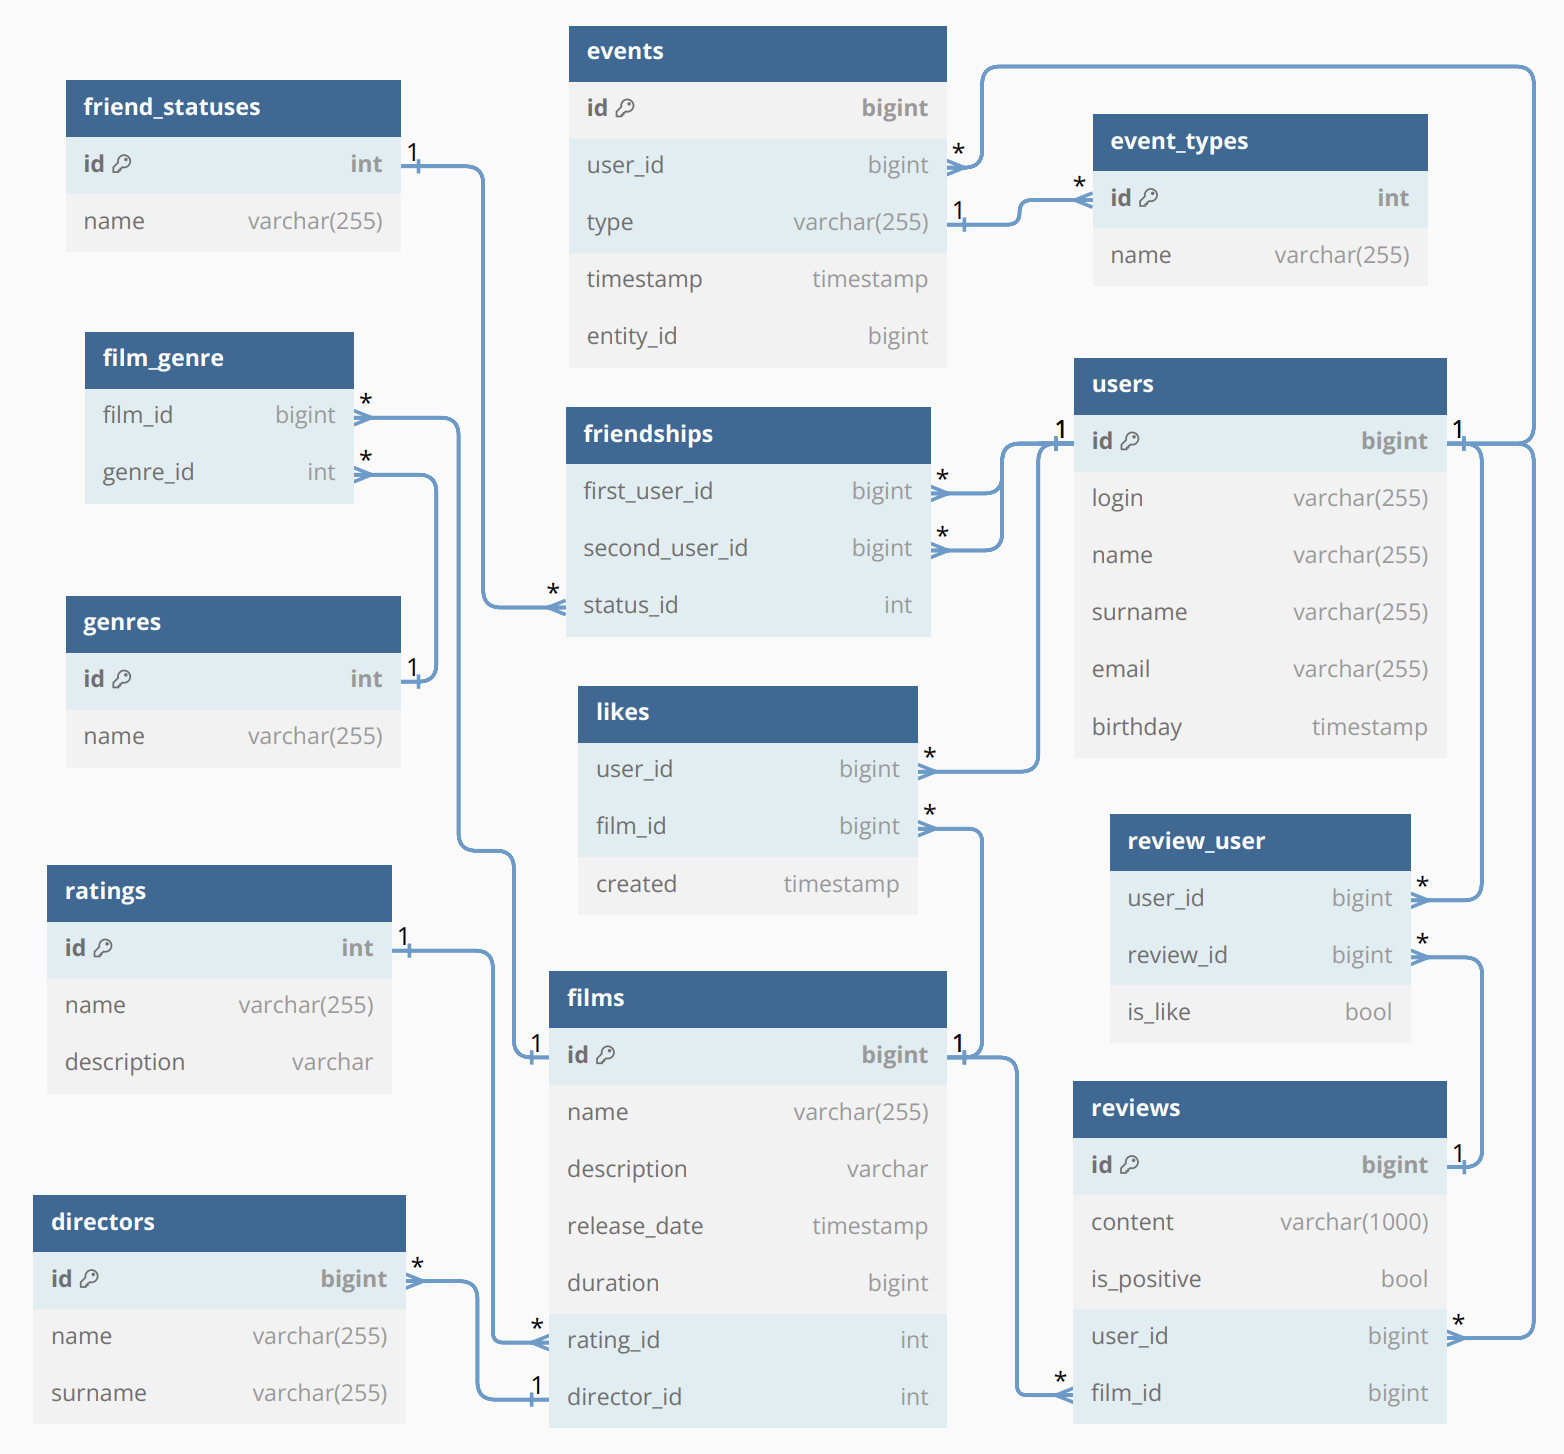
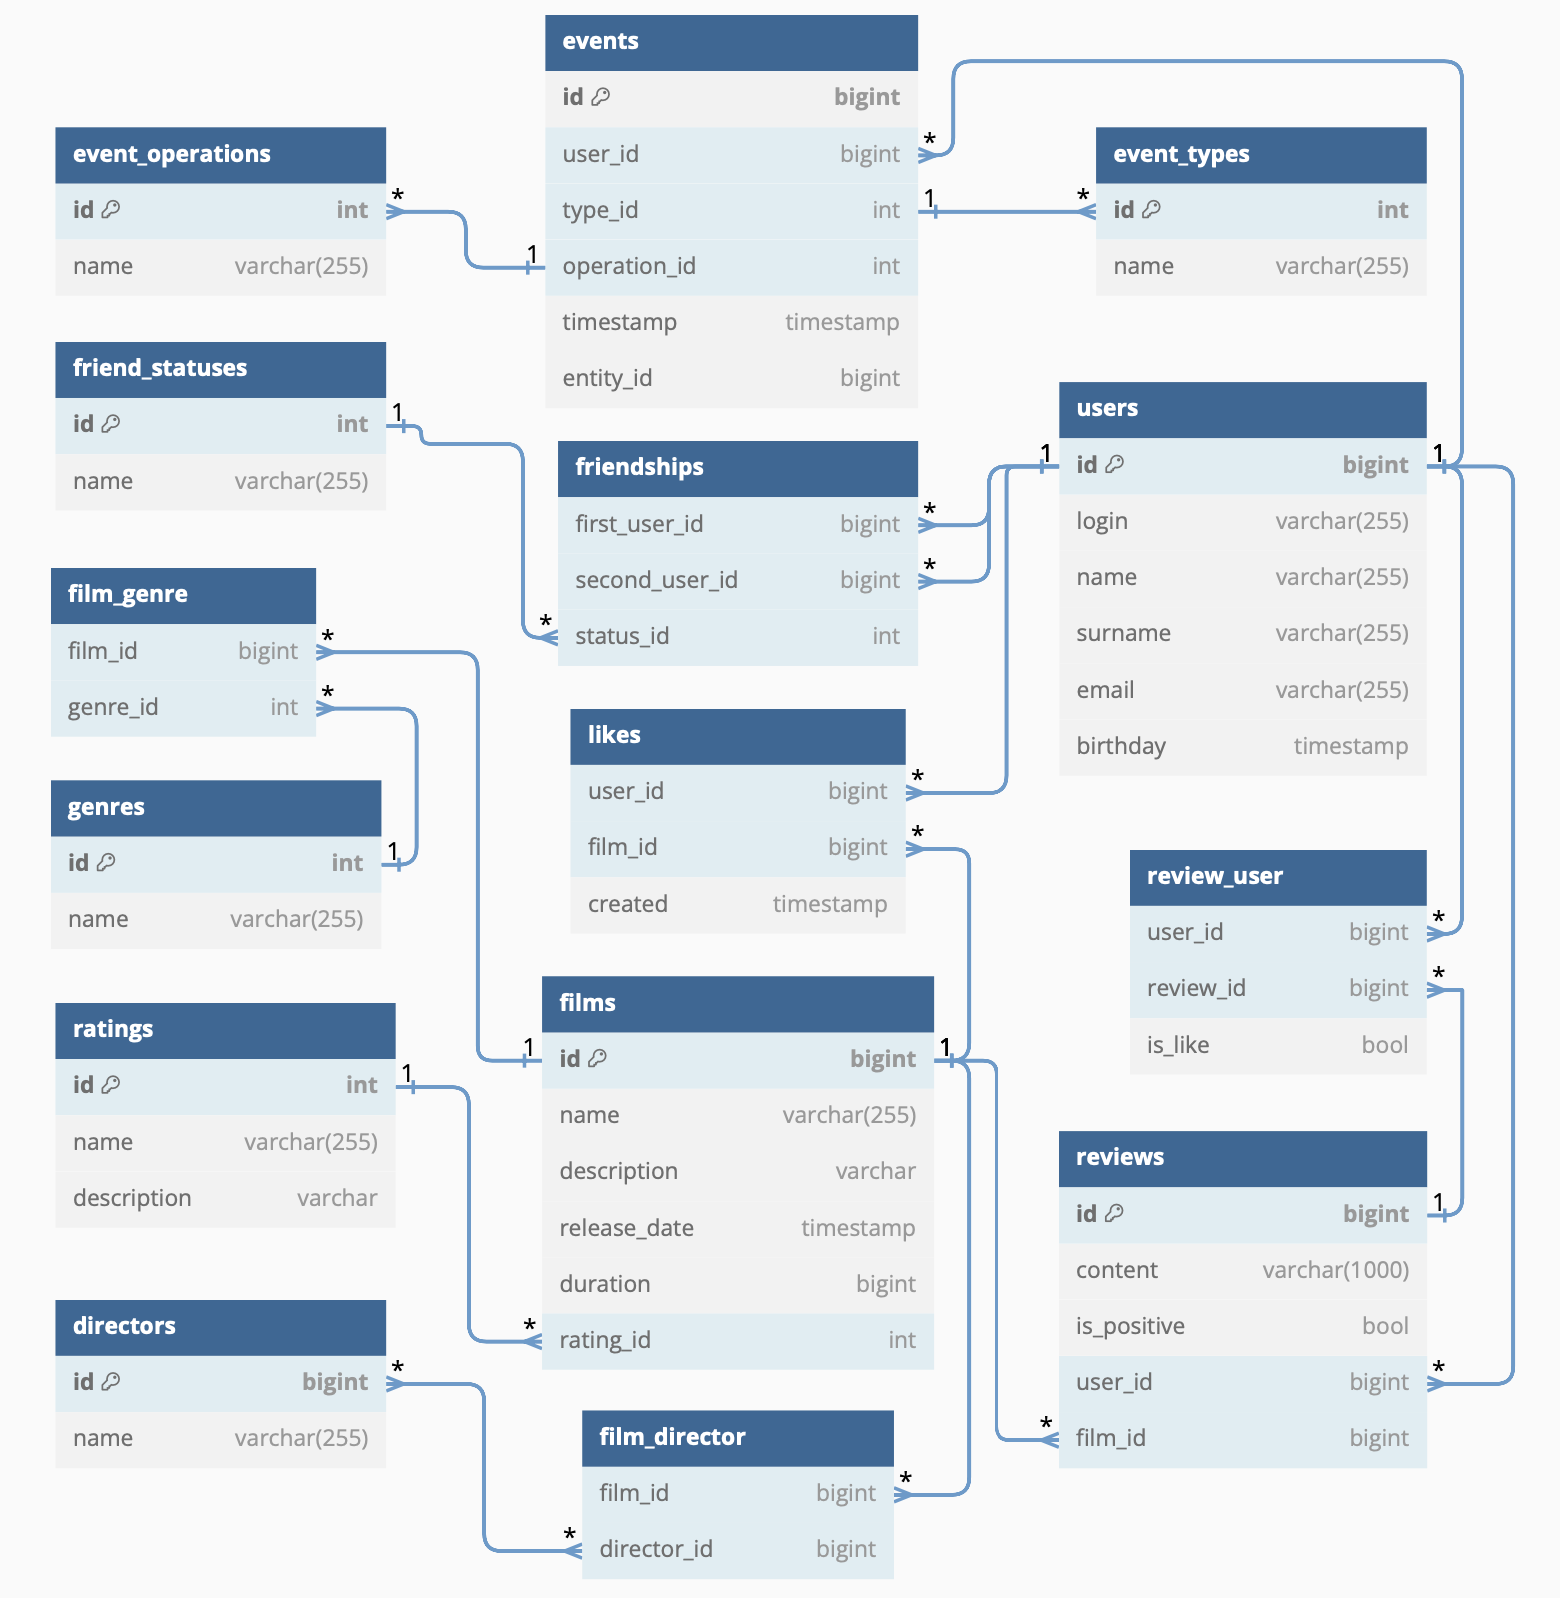
Исправить ER-диаграмму

Changed region(s): [[0.0, 0.2166, 0.9846, 0.9904], [0.3077, 0.0, 0.9846, 0.2476], [0.0308, 0.0309, 0.3077, 0.1857]]

diff --git a/src/main/java/ru/yandex/practicum/filmorate/dal/impl/JdbcFilmRepository.java b/src/main/java/ru/yandex/practicum/filmorate/dal/impl/JdbcFilmRepository.java
@@ -44,7 +44,6 @@ public class JdbcFilmRepository implements FilmRepository {
         SELECT f.genre_id AS id, g.name FROM film_genre AS f
         JOIN genres g ON g.id = f.genre_id WHERE film_id = :film_id
         """;
-
     static final String FILM_INSERT_QUERY = """
         INSERT INTO films (name, description, release_date, duration, rating_id)
         VALUES(:name, :description, :release_date, :duration, :rating_id)
@@ -207,6 +206,66 @@ public class JdbcFilmRepository implements FilmRepository {
         return new ArrayList<>(filmMap.values());
     }
 
+    @Override
+    public List<Film> getCommonFilms(long userId, long friendId) {
+        Map<Long, Film> filmMap = new HashMap<>();
+
+        jdbc.query(LIST_OF_COMMON_FILMS, Map.of("userId", userId, "friendId", friendId), filmRowMapper)
+            .forEach(film -> filmMap.put(film.getId(), film));
+        Map<Long, Genre> genreMap = getEntitiesMap(FIND_ALL_GENRES_QUERY, genreRowMapper, Genre::getId);
+        Map<Long, Director> directorMap = getEntitiesMap(FIND_ALL_DIRECTORS_QUERY, directorRowMapper, Director::getId);
+        Map<Long, MpaRating> ratingMap = getEntitiesMap(FIND_ALL_RATINGS_QUERY, ratingRowMapper, MpaRating::getId);
+
+        fillGenres(filmMap, genreMap);
+        fillDirectors(filmMap, directorMap);
+        fillLikes(filmMap);
+
+        filmMap.forEach((filmId, film) -> film.setMpa(ratingMap.get(film.getMpa().getId())));
+        return new ArrayList<>(filmMap.values());
+    }
+
+    @Override
+    public List<Film> getRecommendations(long userId) {
+        Map<Long, Film> filmMap = new HashMap<>();
+
+        jdbc.query(LIST_OF_RECOMMENDED_FILMS, Map.of("userId", userId), filmRowMapper)
+            .forEach(film -> filmMap.put(film.getId(), film));
+        Map<Long, Genre> genreMap = getEntitiesMap(FIND_ALL_GENRES_QUERY, genreRowMapper, Genre::getId);
+        Map<Long, Director> directorMap = getEntitiesMap(FIND_ALL_DIRECTORS_QUERY, directorRowMapper, Director::getId);
+        Map<Long, MpaRating> ratingMap = getEntitiesMap(FIND_ALL_RATINGS_QUERY, ratingRowMapper, MpaRating::getId);
+
+        fillGenres(filmMap, genreMap);
+        fillDirectors(filmMap, directorMap);
+        fillLikes(filmMap);
+
+        filmMap.forEach((filmId, film) -> film.setMpa(ratingMap.get(film.getMpa().getId())));
+
+        return new ArrayList<>(filmMap.values());
+    }
+
+    @Override
+    public List<Film> getTopPopularFilms(Long limit, Long genreId, Long year) {
+        MapSqlParameterSource params = new MapSqlParameterSource()
+            .addValue("genre_id", genreId)
+            .addValue("year", year)
+            .addValue("limit", limit);
+
+        Map<Long, Genre> genreMap = getEntitiesMap(FIND_ALL_GENRES_QUERY, genreRowMapper, Genre::getId);
+        Map<Long, Director> directorMap = getEntitiesMap(FIND_ALL_DIRECTORS_QUERY, directorRowMapper, Director::getId);
+        Map<Long, MpaRating> ratingMap = getEntitiesMap(FIND_ALL_RATINGS_QUERY, ratingRowMapper, MpaRating::getId);
+
+        Map<Long, Film> filmMap = getEntitiesMap(buildTopFilmsQuery(genreId, year), filmRowMapper, Film::getId,
+            params.getValues());
+
+        fillGenres(filmMap, genreMap);
+        fillDirectors(filmMap, directorMap);
+        fillLikes(filmMap);
+
+        filmMap.forEach((filmId, film) -> film.setMpa(ratingMap.get(film.getMpa().getId())));
+
+        return new ArrayList<>(filmMap.values());
+    }
+
     MapSqlParameterSource buildParams(String query, String by) {
         query = "%" + query + "%";
         return switch (by) {
@@ -225,13 +284,13 @@ public class JdbcFilmRepository implements FilmRepository {
     }
 
     <T> Map<Long, T> getEntitiesMap(String query, RowMapper<T> rowMapper, Function<T, Long> idExtractor,
-                                            Map<String, ?> params) {
+                                    Map<String, ?> params) {
         return getEntitiesMap(query, rowMapper, idExtractor, params, LinkedHashMap::new);
     }
 
     <T> Map<Long, T> getEntitiesMap(String query, RowMapper<T> rowMapper,
-                                            Function<T, Long> idExtractor, Map<String, ?> params,
-                                            Supplier<Map<Long, T>> mapSupplier) {
+                                    Function<T, Long> idExtractor, Map<String, ?> params,
+                                    Supplier<Map<Long, T>> mapSupplier) {
         return getEntitiesByCollector(query, rowMapper, idExtractor, params, Collectors.toMap(
             idExtractor, Function.identity(), (oldFilm, newFilm) -> oldFilm, mapSupplier
         ));
@@ -312,66 +371,6 @@ public class JdbcFilmRepository implements FilmRepository {
 
         jdbc.update(FILM_GENRE_DELETE_QUERY, deleteFilmGenreParam);
         jdbc.update(FILM_DIRECTOR_DELETE_QUERY, deleteFilmDirectorParam);
-    }
-
-    @Override
-    public List<Film> getCommonFilms(long userId, long friendId) {
-        Map<Long, Film> filmMap = new HashMap<>();
-
-        jdbc.query(LIST_OF_COMMON_FILMS, Map.of("userId", userId, "friendId", friendId), filmRowMapper)
-            .forEach(film -> filmMap.put(film.getId(), film));
-        Map<Long, Genre> genreMap = getEntitiesMap(FIND_ALL_GENRES_QUERY, genreRowMapper, Genre::getId);
-        Map<Long, Director> directorMap = getEntitiesMap(FIND_ALL_DIRECTORS_QUERY, directorRowMapper, Director::getId);
-        Map<Long, MpaRating> ratingMap = getEntitiesMap(FIND_ALL_RATINGS_QUERY, ratingRowMapper, MpaRating::getId);
-
-        fillGenres(filmMap, genreMap);
-        fillDirectors(filmMap, directorMap);
-        fillLikes(filmMap);
-
-        filmMap.forEach((filmId, film) -> film.setMpa(ratingMap.get(film.getMpa().getId())));
-        return new ArrayList<>(filmMap.values());
-    }
-
-    @Override
-    public List<Film> getRecommendations(long userId) {
-        Map<Long, Film> filmMap = new HashMap<>();
-
-        jdbc.query(LIST_OF_RECOMMENDED_FILMS, Map.of("userId", userId), filmRowMapper)
-            .forEach(film -> filmMap.put(film.getId(), film));
-        Map<Long, Genre> genreMap = getEntitiesMap(FIND_ALL_GENRES_QUERY, genreRowMapper, Genre::getId);
-        Map<Long, Director> directorMap = getEntitiesMap(FIND_ALL_DIRECTORS_QUERY, directorRowMapper, Director::getId);
-        Map<Long, MpaRating> ratingMap = getEntitiesMap(FIND_ALL_RATINGS_QUERY, ratingRowMapper, MpaRating::getId);
-
-        fillGenres(filmMap, genreMap);
-        fillDirectors(filmMap, directorMap);
-        fillLikes(filmMap);
-
-        filmMap.forEach((filmId, film) -> film.setMpa(ratingMap.get(film.getMpa().getId())));
-
-        return new ArrayList<>(filmMap.values());
-    }
-
-    @Override
-    public List<Film> getTopPopularFilms(Long limit, Long genreId, Long year) {
-        MapSqlParameterSource params = new MapSqlParameterSource()
-            .addValue("genre_id", genreId)
-            .addValue("year", year)
-            .addValue("limit", limit);
-
-        Map<Long, Genre> genreMap = getEntitiesMap(FIND_ALL_GENRES_QUERY, genreRowMapper, Genre::getId);
-        Map<Long, Director> directorMap = getEntitiesMap(FIND_ALL_DIRECTORS_QUERY, directorRowMapper, Director::getId);
-        Map<Long, MpaRating> ratingMap = getEntitiesMap(FIND_ALL_RATINGS_QUERY, ratingRowMapper, MpaRating::getId);
-
-        Map<Long, Film> filmMap = getEntitiesMap(buildTopFilmsQuery(genreId, year), filmRowMapper, Film::getId,
-            params.getValues());
-
-        fillGenres(filmMap, genreMap);
-        fillDirectors(filmMap, directorMap);
-        fillLikes(filmMap);
-
-        filmMap.forEach((filmId, film) -> film.setMpa(ratingMap.get(film.getMpa().getId())));
-
-        return new ArrayList<>(filmMap.values());
     }
 
     String buildTopFilmsQuery(Long genreId, Long year) {

diff --git a/src/main/java/ru/yandex/practicum/filmorate/dal/impl/JdbcReviewRepository.java b/src/main/java/ru/yandex/practicum/filmorate/dal/impl/JdbcReviewRepository.java
@@ -24,9 +24,6 @@ import java.util.stream.Collectors;
 @RequiredArgsConstructor
 @FieldDefaults(level = AccessLevel.PRIVATE)
 public class JdbcReviewRepository implements ReviewRepository {
-    final NamedParameterJdbcOperations jdbc;
-    final ReviewRowMapper reviewRowMapper;
-
     static final String FIND_REVIEW_QUERY = "SELECT * FROM reviews WHERE id = :review_id";
     static final String FIND_ALL_REVIEWS_QUERY = "SELECT * FROM reviews LIMIT :count";
     static final String FIND_FILM_REVIEWS_QUERY = "SELECT * FROM reviews WHERE film_id = :film_id LIMIT :count";
@@ -34,30 +31,25 @@ public class JdbcReviewRepository implements ReviewRepository {
         "WHERE review_id = :review_id";
     static final String COUNT_FILMS_REVIEWS_SCORES = "SELECT r.id, SUM((ru.is_like - 1 + ru.is_like % 2)) " +
         "AS useful FROM review_user ru RIGHT JOIN reviews r ON r.id = ru.review_id WHERE r.film_id = :film_id GROUP BY r.id";
-
     static final String COUNT_ALL_REVIEWS_SCORES = "SELECT r.id, SUM((ru.is_like - 1 + ru.is_like % 2)) " +
         "AS useful FROM review_user ru RIGHT JOIN reviews r ON r.id = ru.review_id GROUP BY r.id";
-
     static final String REVIEW_INSERT_QUERY = "INSERT INTO reviews (content, is_positive, user_id, film_id, timestamp) " +
         "VALUES (:content, :is_positive, :user_id, :film_id, :timestamp)";
-
     static final String REVIEW_UPDATE_QUERY = "UPDATE reviews SET content = :content, " +
         "is_positive = :is_positive, timestamp = :timestamp WHERE id = :id";
-
     static final String REVIEW_DELETE_QUERY = "DELETE FROM reviews WHERE id = :id";
-
     static final String ADD_LIKE_QUERY = "MERGE INTO review_user (review_id, user_id, is_like) " +
         "VALUES (:review_id, :user_id, :is_like)";
-
     static final String REMOVE_ANY_LIKE_QUERY = "DELETE FROM review_user WHERE review_id = :review_id AND " +
         "user_id = :user_id";
-
     static final String REMOVE_CERTAIN_LIKE_QUERY = "DELETE FROM review_user WHERE review_id = :review_id AND " +
         "user_id = :user_id AND is_like = :is_like";
-
     static final String INSERT_EVENT_QUERY = "INSERT INTO events (user_id, entity_id, timestamp, type_id, operation_id) " +
         "SELECT :user_id, :entity_id, :timestamp, t.id , o.id FROM event_types t, operation_types o " +
         "WHERE t.name = :event_type AND o.name = :operation_type";
+
+    final NamedParameterJdbcOperations jdbc;
+    final ReviewRowMapper reviewRowMapper;
 
     @Override
     public Optional<Review> getReviewById(long reviewId) {
@@ -163,17 +155,15 @@ public class JdbcReviewRepository implements ReviewRepository {
     }
 
     @Override
-    public boolean deleteLikeReview(long reviewId, long userId) {
+    public void deleteLikeReview(long reviewId, long userId) {
         // REMOVE_ANY_LIKE_QUERY
         int rows = jdbc.update(REMOVE_ANY_LIKE_QUERY, Map.of("review_id", reviewId, "user_id", userId));
-        return rows > 0;
     }
 
     @Override
-    public boolean deleteDislikeReview(long reviewId, long userId) {
+    public void deleteDislikeReview(long reviewId, long userId) {
         int rows = jdbc.update(REMOVE_CERTAIN_LIKE_QUERY, Map.of("review_id", reviewId, "user_id", userId,
             "is_like", false));
-        return rows > 0;
     }
 
     @Override

diff --git a/src/main/java/ru/yandex/practicum/filmorate/service/impl/BaseFriendService.java b/src/main/java/ru/yandex/practicum/filmorate/service/impl/BaseFriendService.java
@@ -19,6 +19,7 @@ public class BaseFriendService implements FriendService {
     static final String USER_ID_S_NOT_FOUND = "User ID=%s not found";
     final UserRepository userRepository;
 
+    @Override
     public User addFriend(long firstUserId, long secondUserId) throws NotFoundException {
         User firstUser = userRepository.findById(firstUserId)
             .orElseThrow(() -> new NotFoundException(String.format(USER_ID_S_NOT_FOUND, firstUserId)));
@@ -30,6 +31,7 @@ public class BaseFriendService implements FriendService {
         return firstUser;
     }
 
+    @Override
     public User deleteFriend(long firstUserId, long secondUserId) throws NotFoundException {
         User firstUser = userRepository.findById(firstUserId)
             .orElseThrow(() -> new NotFoundException(String.format(USER_ID_S_NOT_FOUND, firstUserId)));
@@ -41,6 +43,7 @@ public class BaseFriendService implements FriendService {
         return firstUser;
     }
 
+    @Override
     public Collection<User> getFriends(long userId) throws NotFoundException {
         User user = userRepository.findById(userId)
             .orElseThrow(() -> new NotFoundException(String.format(USER_ID_S_NOT_FOUND, userId)));
@@ -48,6 +51,7 @@ public class BaseFriendService implements FriendService {
         return userRepository.getFriends(user.getId());
     }
 
+    @Override
     public Collection<User> getCommonFriends(long firstUserId, long secondUserId) throws NotFoundException {
         return userRepository.getCommonFriends(firstUserId, secondUserId);
     }

diff --git a/src/main/java/ru/yandex/practicum/filmorate/service/impl/BaseReviewService.java b/src/main/java/ru/yandex/practicum/filmorate/service/impl/BaseReviewService.java
@@ -81,19 +81,22 @@ public class BaseReviewService implements ReviewService {
     @Override
     public Review setLikeReview(long reviewId, long userId, boolean isPositive) {
         reviewRepository.setLikeReview(reviewId, userId, isPositive);
-        return reviewRepository.getReviewById(reviewId).get();
+        return reviewRepository.getReviewById(reviewId)
+            .orElseThrow(() -> new NotFoundException(String.format(REVIEW_ID_NOT_FOUND, reviewId)));
     }
 
     @Override
     public Review deleteLikeReview(long reviewId, long userId) {
         reviewRepository.deleteLikeReview(reviewId, userId);
-        return reviewRepository.getReviewById(reviewId).get();
+        return reviewRepository.getReviewById(reviewId)
+            .orElseThrow(() -> new NotFoundException(String.format(REVIEW_ID_NOT_FOUND, reviewId)));
     }
 
     @Override
     public Review deleteDislikeReview(long reviewId, long userId) {
         reviewRepository.deleteDislikeReview(reviewId, userId);
-        return reviewRepository.getReviewById(reviewId).get();
+        return reviewRepository.getReviewById(reviewId)
+            .orElseThrow(() -> new NotFoundException(String.format(REVIEW_ID_NOT_FOUND, reviewId)));
     }
 
     void deepValidateReview(Review review) {

diff --git a/src/main/java/ru/yandex/practicum/filmorate/service/impl/BaseFilmService.java b/src/main/java/ru/yandex/practicum/filmorate/service/impl/BaseFilmService.java
@@ -86,6 +86,7 @@ public class BaseFilmService implements FilmService {
         return result;
     }
 
+    @Override
     public Film deleteLike(long filmId, long userId) {
         Film result = editLike(filmId, userId, likeRepository::removeLike);
         likeRepository.eventLike(filmId, userId, OperationType.REMOVE);
@@ -148,7 +149,7 @@ public class BaseFilmService implements FilmService {
     }
 
     <T> Set<T> getValidatedEntities(Set<T> entitySet, Function<T, Long> idExtractor,
-                                            Function<List<Long>, Set<T>> convertIds, String errorMessage) {
+                                    Function<List<Long>, Set<T>> convertIds, String errorMessage) {
         List<Long> entityIds = entitySet.stream().map(idExtractor).toList();
         Set<T> entities = convertIds.apply(entityIds);
         if (entityIds.size() != entities.size()) {

diff --git a/src/main/java/ru/yandex/practicum/filmorate/service/impl/BaseUserService.java b/src/main/java/ru/yandex/practicum/filmorate/service/impl/BaseUserService.java
@@ -45,14 +45,16 @@ public class BaseUserService implements UserService {
         return userRepository.getUserEvents(userId);
     }
 
+    @Override
     public User createUser(User user) throws ValidationException {
         UserValidator.validate(user);
         return userRepository.save(user);
     }
 
+    @Override
     public User updateUser(User newUser) throws ValidationException {
         UserValidator.validate(newUser);
-        User user = userRepository.findById(newUser.getId())
+        userRepository.findById(newUser.getId())
             .orElseThrow(() -> new NotFoundException(String.format(USER_ID_NOT_FOUND, newUser.getId())));
 
         return userRepository.update(newUser);
@@ -67,5 +69,4 @@ public class BaseUserService implements UserService {
         userRepository.delete(userId);
         return user;
     }
-
 }

diff --git a/src/main/java/ru/yandex/practicum/filmorate/dal/ReviewRepository.java b/src/main/java/ru/yandex/practicum/filmorate/dal/ReviewRepository.java
@@ -21,9 +21,9 @@ public interface ReviewRepository {
 
     void setLikeReview(long reviewId, long userId, boolean isPositive);
 
-    boolean deleteLikeReview(long reviewId, long userId); // удаляет и лайки и дизлайки
+    void deleteLikeReview(long reviewId, long userId);
 
-    boolean deleteDislikeReview(long reviewId, long userId); // умеет удалять только дизлайки
+    void deleteDislikeReview(long reviewId, long userId);
 
     void eventReview(long userId, long reviewId, OperationType operationType);
 }

diff --git a/src/main/java/ru/yandex/practicum/filmorate/dal/impl/JdbcUserRepository.java b/src/main/java/ru/yandex/practicum/filmorate/dal/impl/JdbcUserRepository.java
@@ -166,7 +166,7 @@ public class JdbcUserRepository implements UserRepository {
         return jdbc.query(FIND_USER_EVENTS_QUERY, Map.of("user_id", userId), eventRowMapper);
     }
 
-    private static SqlParameterSource getSqlUserParameters(User user) {
+    static SqlParameterSource getSqlUserParameters(User user) {
         return new MapSqlParameterSource()
             .addValue("email", user.getEmail())
             .addValue("login", user.getLogin())

diff --git a/src/main/java/ru/yandex/practicum/filmorate/service/impl/BaseDirectorService.java b/src/main/java/ru/yandex/practicum/filmorate/service/impl/BaseDirectorService.java
@@ -34,8 +34,6 @@ public class BaseDirectorService implements DirectorService {
 
     @Override
     public Director updateDirector(Director newDirector) {
-
-
         directorRepository.getById(newDirector.getId())
             .orElseThrow(() -> new NotFoundException(String.format(DIRECTOR_ID_NOT_FOUND, newDirector.getId())));
 

diff --git a/src/main/java/ru/yandex/practicum/filmorate/dal/UserRepository.java b/src/main/java/ru/yandex/practicum/filmorate/dal/UserRepository.java
@@ -8,7 +8,7 @@ import java.util.List;
 import java.util.Optional;
 import java.util.Set;
 
-public interface    UserRepository {
+public interface UserRepository {
     List<User> getAll();
 
     Optional<User> findById(long userId);
